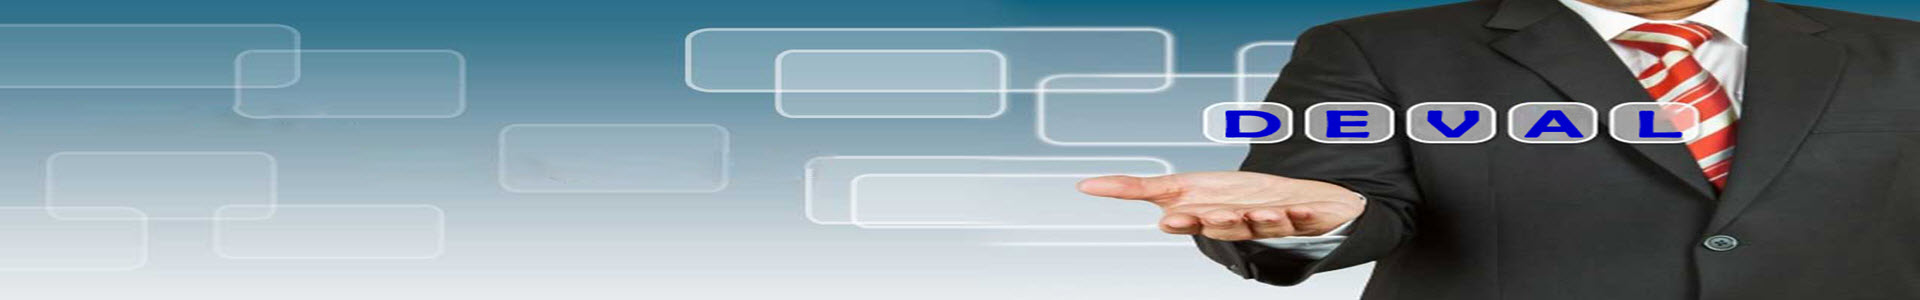
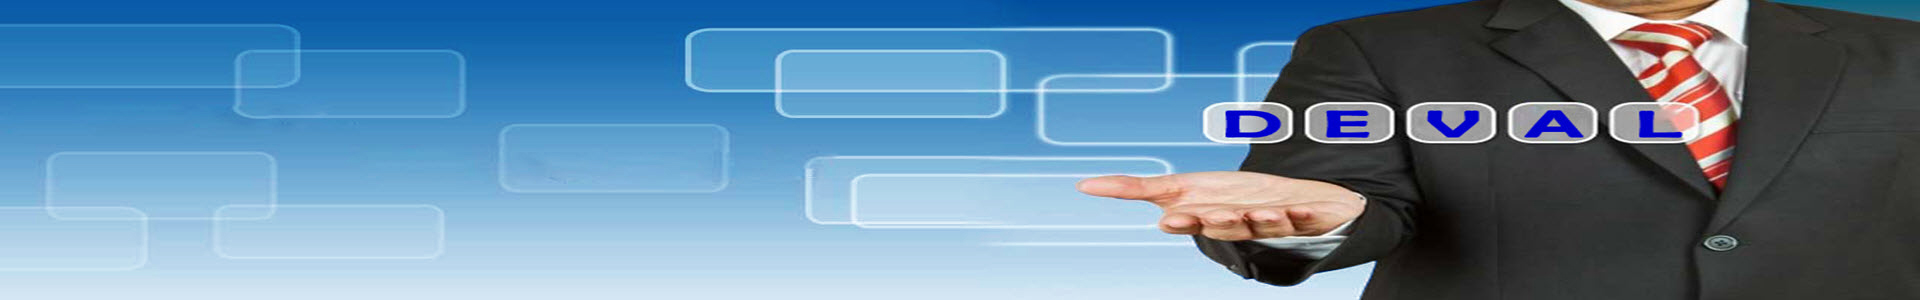
update images

diff --git a/services.html b/services.html
@@ -127,8 +127,8 @@
             <div class="clearfix"></div>
             <div class="header_medium services two">
                 <div class="container">
-                    <h3 class="bigtext">¿Quieres digitalizar<span> tu negocio?</span></h3>
-                    <h3 class="smalltext"><span>Somos</span> los especialistas</h3>
+                    <h3 class="bigtext">¿Quieres digitalizar<span></span></h3>
+                    <h3 class="smalltext"><span></span> tu negocio?</h3>
                 </div>
             </div>
             <!--end header medium-->

diff --git a/css/style.css b/css/style.css
@@ -3138,7 +3138,7 @@ label.custom-select {
 }
 
 .services {
-    background: url(../images/Cloud-computing-Servicios-deval-2.jpg) 0px 0px no-repeat;
+    background: url(../images/Cloud-computing-Servicios-deval-2.png) 0px 0px no-repeat;
     background-size: 100% 300px;
 }
 
